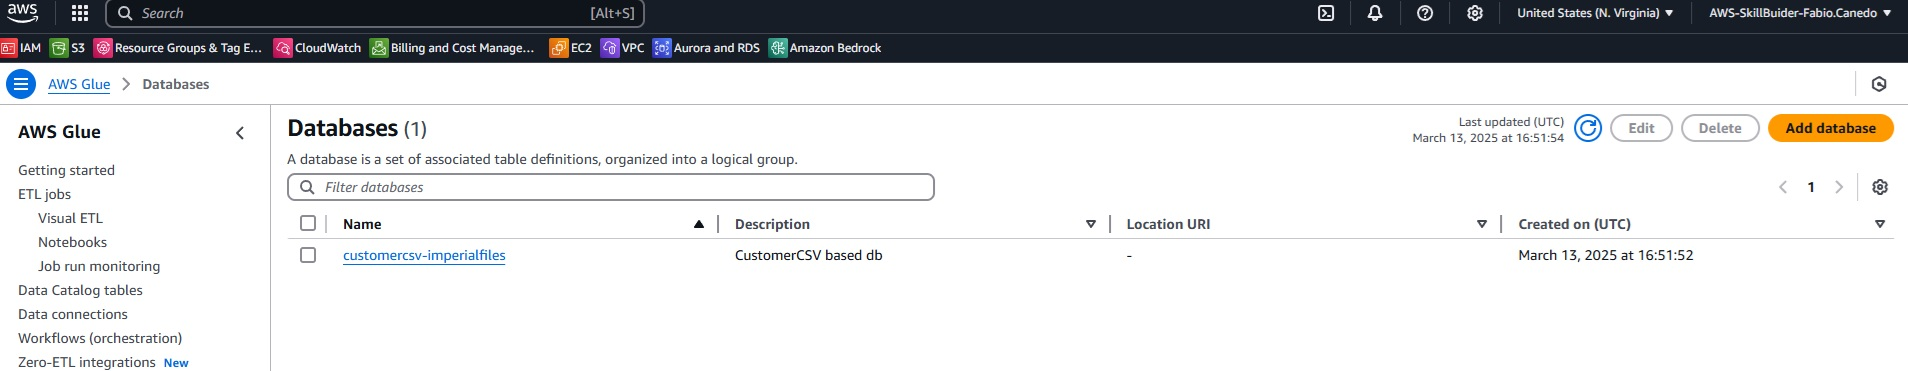
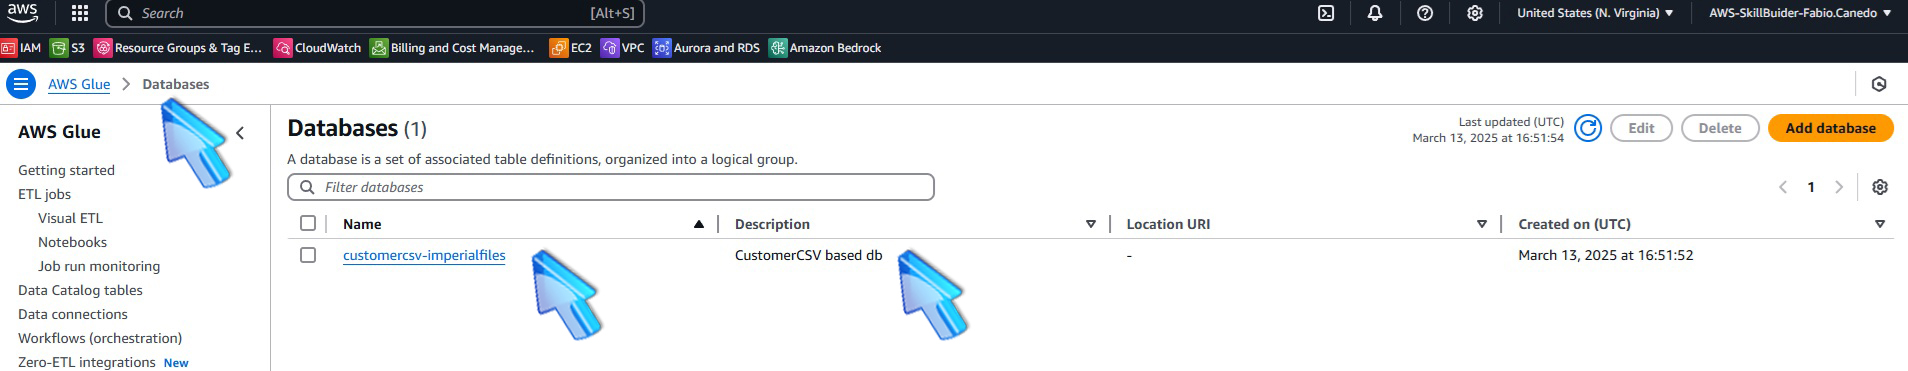
Update AWS Glue documentation images for crawler database creation and target selection

diff --git a/thisisthelab.md b/thisisthelab.md
@@ -167,11 +167,17 @@
 # 3.4 - AWS Glue - Crawler Database Configuration
 
 ###### ![Brazil](https://github.com/Acheroniano/flag-icon/blob/master/png/16/country-4x3/br.png "Brazil") 
-###### Configuração do *banco de dados* baseado no arquivo ![Files badge](https://img.shields.io/badge/customer.csv-%23000000?logo=Files&logoColor=yellow&labelColor=blue)](https://github.com/Acheroniano/aws-glue-crawlers-deepseek/blob/main/customer.csv) salvo no bucket *bucket-for-csv-rawdata-2025-03*.
+###### Configuração do *banco de dados* baseado no arquivo [![Files badge](https://img.shields.io/badge/customer.csv-%23000000?logo=Files&logoColor=yellow&labelColor=blue)](https://github.com/Acheroniano/aws-glue-crawlers-deepseek/blob/main/customer.csv) salvo no bucket *bucket-for-csv-rawdata-2025-03*.
+###### Confira as informações do banco de dados criado.
 
 ###### ![United States](https://github.com/Acheroniano/flag-icon/blob/master/png/16/country-4x3/us.png "United States") 
-###### Database configuration based on the file [Files badge](https://img.shields.io/badge/customer.csv-%23000000?logo=Files&logoColor=yellow&labelColor=blue)](https://github.com/Acheroniano/aws-glue-crawlers-deepseek/blob/main/customer.csv) saved in the bucket *bucket-for-csv-rawdata-2025-03*. 
+###### Database configuration based on the file [![Files badge](https://img.shields.io/badge/customer.csv-%23000000?logo=Files&logoColor=yellow&labelColor=blue)](https://github.com/Acheroniano/aws-glue-crawlers-deepseek/blob/main/customer.csv) saved in the bucket *bucket-for-csv-rawdata-2025-03*. 
+###### Check the information about the database creation.
 
 ![AWS Glue Crawler Database](./images/20a-AWSGlueCrawlerDataBaseCreation.jpg)
-![AWS Glue Crwaler Database 2](./images/20a-AWSGlueCrawlerDataBaseCreation2.jpg)
+![AWS Glue Crawler Database 2](./images/20a-AWSGlueCrawlerDataBaseCreation2.jpg)
+![AWS Glue Crawler Database Created](./images/21a-AWSGlueCrawlerDataBaseCreated.jpg)
+![AWS Glue Crawler Database Target](./images/22a-AWSGlueCrawlerDataBaseTargetChoosed.jpg)
+
+
 
